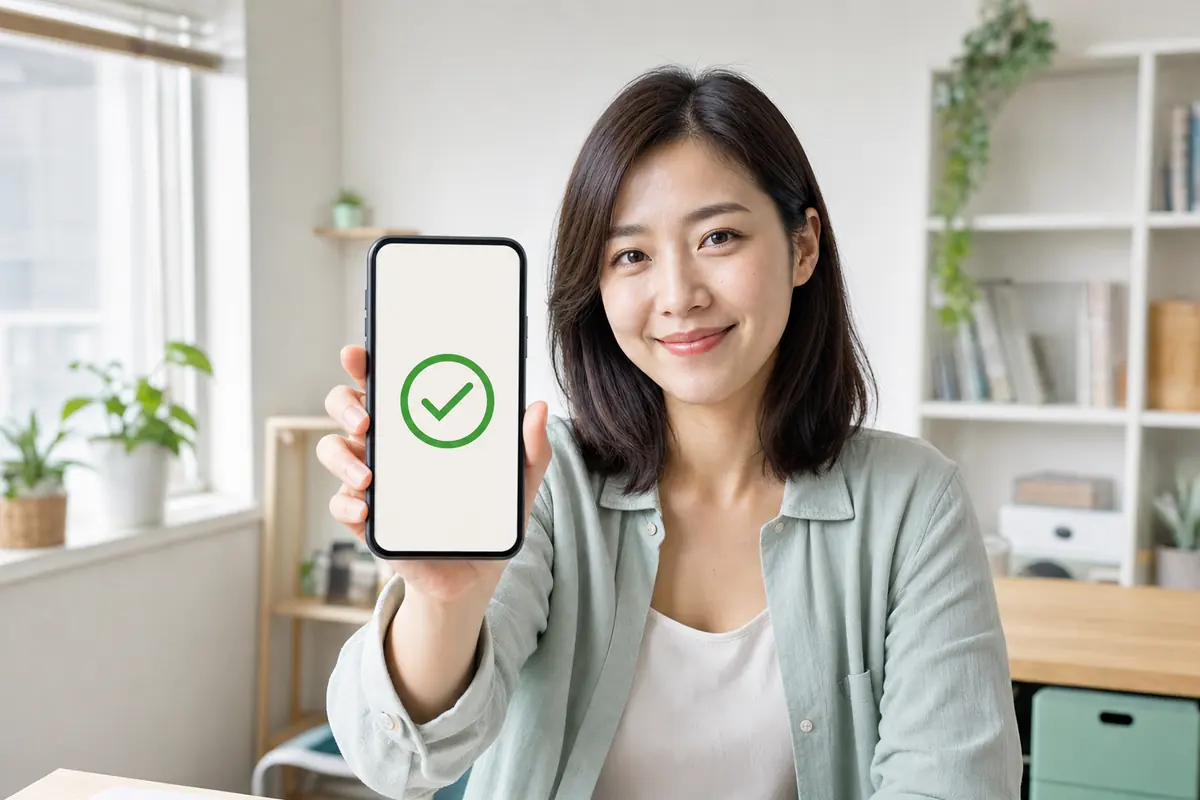
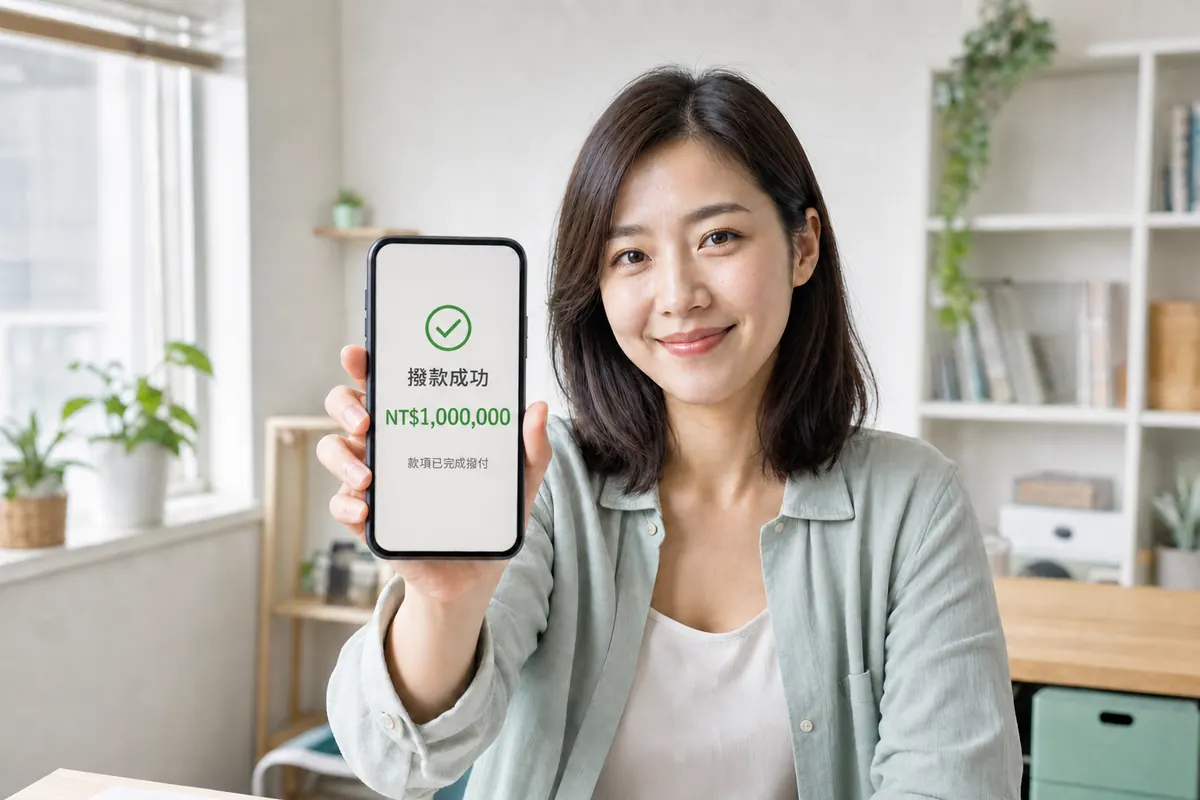
Bake payout result into D landing image

Changed region(s): [[0.3083, 0.375, 0.4317, 0.5938], [0.7092, 0.5, 0.74, 0.5312]]

diff --git a/index.html b/index.html
@@ -424,69 +424,6 @@
       width: 100%;
       height: auto;
     }
-    .approval-screen {
-      position: absolute;
-      left: 31.45%;
-      top: 30.8%;
-      width: 13.25%;
-      height: 38.4%;
-      border-radius: 9% / 5%;
-      background: linear-gradient(180deg, #fff 0%, #f4fff7 100%);
-      color: #163c25;
-      display: flex;
-      flex-direction: column;
-      align-items: center;
-      justify-content: center;
-      gap: 4px;
-      padding: 8px 3px;
-      text-align: center;
-      line-height: 1.15;
-      pointer-events: none;
-      box-shadow: inset 0 0 0 1px rgba(20, 80, 45, .08);
-    }
-    .approval-check {
-      width: clamp(20px, 2.8vw, 34px);
-      height: clamp(20px, 2.8vw, 34px);
-      border: 2px solid #06c755;
-      border-radius: 50%;
-      position: relative;
-      margin-bottom: 2px;
-    }
-    .approval-check::after {
-      content: "";
-      position: absolute;
-      left: 26%;
-      top: 21%;
-      width: 38%;
-      height: 20%;
-      border-left: 2px solid #06c755;
-      border-bottom: 2px solid #06c755;
-      transform: rotate(-45deg);
-    }
-    .approval-title {
-      color: #057d37;
-      font-size: clamp(8px, 1vw, 12px);
-      font-weight: 900;
-      white-space: nowrap;
-    }
-    .approval-label {
-      color: #63756a;
-      font-size: clamp(7px, .78vw, 9px);
-      white-space: nowrap;
-    }
-    .approval-amount {
-      color: #073e20;
-      font-size: clamp(11px, 1.45vw, 18px);
-      font-weight: 900;
-      letter-spacing: 0;
-      white-space: nowrap;
-    }
-    .approval-amount small {
-      display: block;
-      font-size: .62em;
-      color: #057d37;
-      margin-bottom: 1px;
-    }
     .img-caption {
       font-size: 12px;
       color: #999;
@@ -1222,18 +1159,6 @@
       .nav-search { display: none; }
       .article-card { padding: 14px 14px 20px; }
       .comments-section { padding: 14px; }
-      .approval-screen {
-        left: 15.3%;
-        top: 30.8%;
-        width: 24.7%;
-        height: 38.4%;
-        gap: 3px;
-        padding: 6px 2px;
-      }
-      .approval-check { width: 24px; height: 24px; }
-      .approval-title { font-size: clamp(8px, 2.5vw, 11px); }
-      .approval-label { font-size: clamp(7px, 2.1vw, 9px); }
-      .approval-amount { font-size: clamp(11px, 3.45vw, 15px); }
     }
     @media (max-width: 380px) {
       .article-h1 { font-size: 18px; }
@@ -1425,14 +1350,8 @@
         <div class="article-main-img" style="margin-top:4px;">
           <picture>
             <source media="(max-width: 768px)" srcset="img_success_woman-mobile.webp" width="720" height="900" />
-            <img src="img_success_woman-desktop.webp" width="1200" height="800" loading="lazy" decoding="async" alt="台灣女性查看最高一百萬元額度審核結果" onerror="this.closest('.article-main-img').textContent='圖片載入中'" />
+            <img src="img_success_woman-desktop.webp" width="1200" height="800" loading="lazy" decoding="async" alt="台灣女性查看一百萬元撥款成功結果" onerror="this.closest('.article-main-img').textContent='圖片載入中'" />
           </picture>
-          <div class="approval-screen" aria-hidden="true">
-            <span class="approval-check"></span>
-            <span class="approval-title">額度審核通過</span>
-            <span class="approval-label">最高核准額度</span>
-            <strong class="approval-amount"><small>NT$</small>1,000,000</strong>
-          </div>
         </div>
         <p class="img-caption">▲ 最高可評估 100 萬，實際額度、利率與撥款結果仍依合作單位最終審核為準（情境示意圖）</p>
 